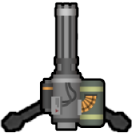
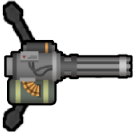
add turret 2

diff --git a/src/game/map/systems.rs b/src/game/map/systems.rs
@@ -1,18 +1,15 @@
-use std::ops::Deref;
 use super::components::*;
 use crate::constants::*;
 use crate::game::components::*;
 use crate::game::enemy::components::{Enemy, EnemyManager};
 use crate::game::resources::{GameSettings, NightStats, Player};
-use crate::game::weapon::components::{Bullet, Weapon, WeaponManager, WeaponName};
+use crate::game::weapon::components::{Bullet, Weapon, WeaponName};
 use crate::game::{AppState, GameState};
 use crate::utils::{scale_duration, toggle, CustomUi};
 use bevy::color::palettes::basic::WHITE;
 use bevy::prelude::*;
 use bevy_egui::egui::{Align, Layout, RichText, Style, TextStyle, UiBuilder};
 use bevy_egui::{egui, EguiContexts};
-use catppuccin_egui;
-use rand::prelude::*;
 
 pub fn set_style(mut contexts: EguiContexts) {
     let context = contexts.ctx_mut();
@@ -295,12 +292,13 @@ pub fn weapons_panel(
     mut weapon_q: Query<&mut Weapon>,
     mut player: ResMut<Player>,
     game_settings: Res<GameSettings>,
-    weapons: Res<WeaponManager>,
     app_state: Res<State<AppState>>,
     images: Local<Images>,
 ) {
     let weapon_texture = contexts.add_image(images.weapon.clone_weak());
     let lightning_texture = contexts.add_image(images.lightning.clone_weak());
+    let bullets_texture = contexts.add_image(images.bullets.clone_weak());
+    let gasoline_texture = contexts.add_image(images.gasoline.clone_weak());
 
     egui::SidePanel::right("Weapons panel")
         .exact_width(WEAPONS_PANEL_SIZE.x)
@@ -322,16 +320,16 @@ pub fn weapons_panel(
 
                 // Sentry gun
                 ui.horizontal(|ui| {
-                    ui.add(egui::Label::new(format!("{:?}: ", WeaponName::SentryGun)));
+                    ui.add(egui::Label::new(format!("{:?}: ", WeaponName::MachineGun)));
 
                     let sentry_gun_slider = ui
-                        .add(egui::Slider::new(&mut player.weapons.settings.sentry_gun_fire_rate, 0..=weapons.sentry_gun.max_fire_rate))
+                        .add(egui::Slider::new(&mut player.weapons.settings.sentry_gun_fire_rate, 0..=5))
                         .on_hover_text("Sentry guns shoot N bullets per second.");
 
                     if sentry_gun_slider.changed() {
                         weapon_q
                             .iter_mut()
-                            .filter(|w| w.name == WeaponName::SentryGun)
+                            .filter(|w| w.name == WeaponName::MachineGun)
                             .for_each(|mut w| w.as_mut().update(player.as_ref(), game_settings.as_ref()))
                     }
                 });
@@ -354,13 +352,37 @@ pub fn weapons_panel(
                         });
                     });
                 }
+
+                ui.add_space(5.);
+                ui.separator();
+                ui.add_space(5.);
+
+                ui.add_enabled_ui(player.resources.materials >= 300., |ui| {
+                    ui.horizontal(|ui| {
+                        ui.add_image(bullets_texture, [20., 20.]);
+                        let bullet_button = ui.add_sized([30., 30.], egui::Button::new("+100")).on_hover_text("Buy 100 bullets for 300 materials.");
+                        if bullet_button.clicked() {
+                            player.resources.bullets += 100.;
+                            player.resources.materials -= 300.;
+                        }
+
+                        ui.add_space(15.);
+
+                        ui.add_image(gasoline_texture, [20., 20.]);
+                        let gasoline_button = ui.add_sized([30., 30.], egui::Button::new("+100")).on_hover_text("Buy 100 gasoline for 300 materials.");
+                        if gasoline_button.clicked() {
+                            player.resources.gasoline += 100.;
+                            player.resources.materials -= 300.;
+                        }
+                    });
+                });
             });
         });
 }
 
 pub fn info_panel(
     mut contexts: EguiContexts,
-    mut player: ResMut<Player>,
+    player: Res<Player>,
     app_state: Res<State<AppState>>,
     mut next_state: ResMut<NextState<AppState>>,
     images: Local<Images>,
@@ -420,12 +442,10 @@ pub fn info_panel(
 
                         ui.add_space(15.);
 
-                        let new_survivors = thread_rng().gen_range(0..=200 * player.day);
-                        ui.label(format!(
+                        ui.label(
                             "The night is over. The sun is rising and the bugs are \
                             retreating. You can now collect resources and upgrade your \
-                            weapons before the next night. During the day, {} survivors \
-                            joined the fortress.", new_survivors));
+                            weapons before the next night.");
 
                         ui.add_night_stats(player.as_ref());
 
@@ -433,8 +453,6 @@ pub fn info_panel(
                             ui.add_space(10.);
 
                             if ui.add_button("Continue").clicked() {
-                                player.survivors += new_survivors;
-                                player.day += 1;
                                 next_state.set(AppState::Night);
                             }
                         });

diff --git a/src/game/weapon/components.rs b/src/game/weapon/components.rs
@@ -3,7 +3,8 @@ use bevy::prelude::*;
 
 #[derive(Clone, Debug, Eq, PartialEq)]
 pub enum WeaponName {
-    SentryGun,
+    MachineGun,
+    Turret,
 }
 
 #[derive(Component)]
@@ -19,7 +20,6 @@ pub struct Weapon {
     pub size: Vec2,
     pub rotation_speed: f32,
     pub price: Resources,
-    pub max_fire_rate: u32,
     pub fire_cost: Resources,
     pub fire_timer: Option<Timer>,
     pub bullet: Bullet,
@@ -45,27 +45,15 @@ impl Weapon {
         false
     }
 
-    pub fn rotate(
-        &mut self,
-        angle: &f32,
-        transform: &mut Transform,
-        game_settings: &GameSettings,
-        time: &Time,
-    ) -> bool {
+    pub fn is_aiming(&self, angle: &f32, transform: &Transform) -> bool {
         // Accept a 0.1 tolerance (in radians)
-        if (angle - transform.rotation.to_euler(EulerRot::XYZ).2).abs() >= 0.1 {
-            transform.rotation = transform.rotation.slerp(
-                Quat::from_rotation_z(*angle),
-                self.rotation_speed * game_settings.speed * time.delta_secs(),
-            );
-            return false;
-        }
-        true
+        (angle - transform.rotation.to_euler(EulerRot::XYZ).2).abs() < 0.1
     }
 
+    /// Update the weapon's settings based on the player and game settings
     pub fn update(&mut self, player: &Player, game_settings: &GameSettings) {
         match self.name {
-            WeaponName::SentryGun => {
+            WeaponName::MachineGun => {
                 self.fire_timer = match player.weapons.settings.sentry_gun_fire_rate {
                     0 => None,
                     v => Some(Timer::from_seconds(
@@ -74,6 +62,12 @@ impl Weapon {
                     )),
                 };
             }
+            WeaponName::Turret => {
+                self.fire_timer = Some(Timer::from_seconds(
+                    2. / game_settings.speed,
+                    TimerMode::Repeating,
+                ))
+            }
         }
     }
 }
@@ -81,12 +75,14 @@ impl Weapon {
 #[derive(Resource)]
 pub struct WeaponManager {
     pub sentry_gun: Weapon,
+    pub turret: Weapon,
 }
 
 impl WeaponManager {
     pub fn get(&self, name: &WeaponName) -> Weapon {
         match name {
-            WeaponName::SentryGun => self.sentry_gun.clone(),
+            WeaponName::MachineGun => self.sentry_gun.clone(),
+            WeaponName::Turret => self.turret.clone(),
         }
     }
 }
@@ -95,15 +91,14 @@ impl Default for WeaponManager {
     fn default() -> Self {
         Self {
             sentry_gun: Weapon {
-                name: WeaponName::SentryGun,
-                image: "weapon/sentry-gun.png".to_string(),
-                size: Vec2::new(110., 110.),
+                name: WeaponName::MachineGun,
+                image: "weapon/machine-gun.png".to_string(),
+                size: Vec2::new(70., 70.),
                 rotation_speed: 5.,
                 price: Resources {
                     materials: 100.,
                     ..default()
                 },
-                max_fire_rate: 5,
                 fire_cost: Resources {
                     bullets: 1.,
                     ..default()
@@ -111,11 +106,35 @@ impl Default for WeaponManager {
                 fire_timer: None,
                 bullet: Bullet {
                     image: "weapon/bullet.png".to_string(),
-                    size: Vec2::new(30., 5.),
-                    speed: 60.,
+                    size: Vec2::new(25., 7.),
+                    speed: 80.,
                     angle: 0.,
                     damage: 5.,
                     max_distance: 70.,
+                    distance: 0.,
+                },
+            },
+            turret: Weapon {
+                name: WeaponName::Turret,
+                image: "weapon/turret.png".to_string(),
+                size: Vec2::new(90., 90.),
+                rotation_speed: 3.,
+                price: Resources {
+                    materials: 1000.,
+                    ..default()
+                },
+                fire_cost: Resources {
+                    bullets: 30.,
+                    ..default()
+                },
+                fire_timer: None,
+                bullet: Bullet {
+                    image: "weapon/triple-bullet.png".to_string(),
+                    size: Vec2::new(25., 25.),
+                    speed: 60.,
+                    angle: 0.,
+                    damage: 50.,
+                    max_distance: 100.,
                     distance: 0.,
                 },
             },

diff --git a/src/game/weapon/systems.rs b/src/game/weapon/systems.rs
@@ -6,6 +6,7 @@ use crate::game::weapon::components::{Bullet, Fence, Wall, Weapon, WeaponManager
 use crate::utils::collision;
 use bevy::prelude::*;
 use std::cmp::PartialOrd;
+use std::f32::consts::PI;
 
 pub fn spawn_weapons(
     mut commands: Commands,
@@ -63,11 +64,15 @@ pub fn spawn_weapons(
                     custom_size: Some(w.size),
                     ..default()
                 },
-                Transform::from_xyz(
-                    -SIZE.x * 0.5 + pos,
-                    -SIZE.y * 0.5 + RESOURCES_PANEL_SIZE.y + WALL_SIZE.y * 0.5,
-                    2.0,
-                ),
+                Transform {
+                    translation: Vec3::new(
+                        -SIZE.x * 0.5 + pos,
+                        -SIZE.y * 0.5 + RESOURCES_PANEL_SIZE.y + WALL_SIZE.y * 0.5,
+                        2.0,
+                    ),
+                    rotation: Quat::from_rotation_z(PI * 0.5),
+                    ..default()
+                },
                 w,
             ));
         }
@@ -108,12 +113,7 @@ pub fn spawn_bullets(
                 let angle = d.y.atan2(d.x);
 
                 // Rotate the weapon towards the selected enemy
-                if weapon.rotate(
-                    &angle,
-                    &mut transform,
-                    game_settings.as_ref(),
-                    time.as_ref(),
-                ) {
+                if weapon.is_aiming(&angle, &transform) {
                     // Check if the weapon can fire (fire timer is finished)
                     if weapon.can_fire(&time) {
                         let mut bullet = weapon.bullet.clone();
@@ -128,7 +128,7 @@ pub fn spawn_bullets(
                             Transform {
                                 translation: Vec3::new(
                                     transform.translation.x,
-                                    transform.translation.y + 10.,
+                                    transform.translation.y + 20.,
                                     3.0,
                                 ),
                                 rotation: Quat::from_rotation_z(bullet.angle),
@@ -143,8 +143,22 @@ pub fn spawn_bullets(
                         player.resources.gasoline -= weapon.fire_cost.gasoline;
                     }
                 }
+
+                // Rotate towards the enemy
+                transform.rotation = transform.rotation.slerp(
+                    Quat::from_rotation_z(angle),
+                    weapon.rotation_speed * game_settings.speed * time.delta_secs(),
+                );
+
+                continue;
             }
         }
+
+        // If the weapon couldn't shoot, return to the default position
+        transform.rotation = transform.rotation.slerp(
+            Quat::from_rotation_z(PI * 0.5),
+            weapon.rotation_speed * game_settings.speed * time.delta_secs(),
+        );
     }
 }
 

diff --git a/src/game/systems.rs b/src/game/systems.rs
@@ -4,6 +4,7 @@ use crate::game::resources::{GameSettings, NightStats, Player};
 use crate::game::weapon::components::WeaponManager;
 use crate::game::{AppState, GameState};
 use bevy::prelude::*;
+use rand::prelude::*;
 
 pub fn new_game(mut commands: Commands, mut next_state: ResMut<NextState<GameState>>) {
     commands.insert_resource(Player::init());
@@ -24,6 +25,11 @@ pub fn end_night(mut player: ResMut<Player>, night_stats: Res<NightStats>) {
         .stats
         .entry(night_stats.day)
         .or_insert(night_stats.clone());
+}
+
+pub fn start_day(mut player: ResMut<Player>) {
+    player.day += 1;
+    player.survivors += rand::thread_rng().gen_range(0..=200 * player.day);
 }
 
 pub fn pause_game(
@@ -60,6 +66,15 @@ pub fn check_keys(
 ) {
     if keyboard.just_pressed(KeyCode::KeyE) {
         game_settings.enemy_info = !game_settings.enemy_info;
+    }
+
+    if keyboard.just_pressed(KeyCode::Enter) {
+        match *app_state.get() {
+            AppState::StartGame => next_app_state.set(AppState::Night),
+            AppState::EndNight => next_app_state.set(AppState::Day),
+            AppState::GameOver => next_app_state.set(AppState::StartGame),
+            _ => (),
+        }
     }
 
     if keyboard.any_pressed([KeyCode::ControlLeft, KeyCode::ControlRight]) {

diff --git a/src/game/resources.rs b/src/game/resources.rs
@@ -130,11 +130,9 @@ impl Player {
             },
             weapons: Weapons {
                 spots: vec![
-                    None,
-                    Some(WeaponName::SentryGun),
-                    None,
-                    Some(WeaponName::SentryGun),
-                    None,
+                    Some(WeaponName::MachineGun),
+                    Some(WeaponName::Turret),
+                    Some(WeaponName::MachineGun),
                 ],
                 settings: WeaponSettings {
                     sentry_gun_fire_rate: 1,

diff --git a/src/game/mod.rs b/src/game/mod.rs
@@ -20,6 +20,7 @@ impl Plugin for GamePlugin {
             .add_systems(OnEnter(AppState::StartGame), new_game)
             .add_systems(OnEnter(AppState::Night), start_night)
             .add_systems(OnExit(AppState::Night), end_night)
+            .add_systems(OnEnter(AppState::Day), start_day)
             .add_systems(OnEnter(GameState::Paused), pause_game)
             .add_systems(OnEnter(GameState::Running), unpause_game)
             .add_systems(Update, check_keys)
